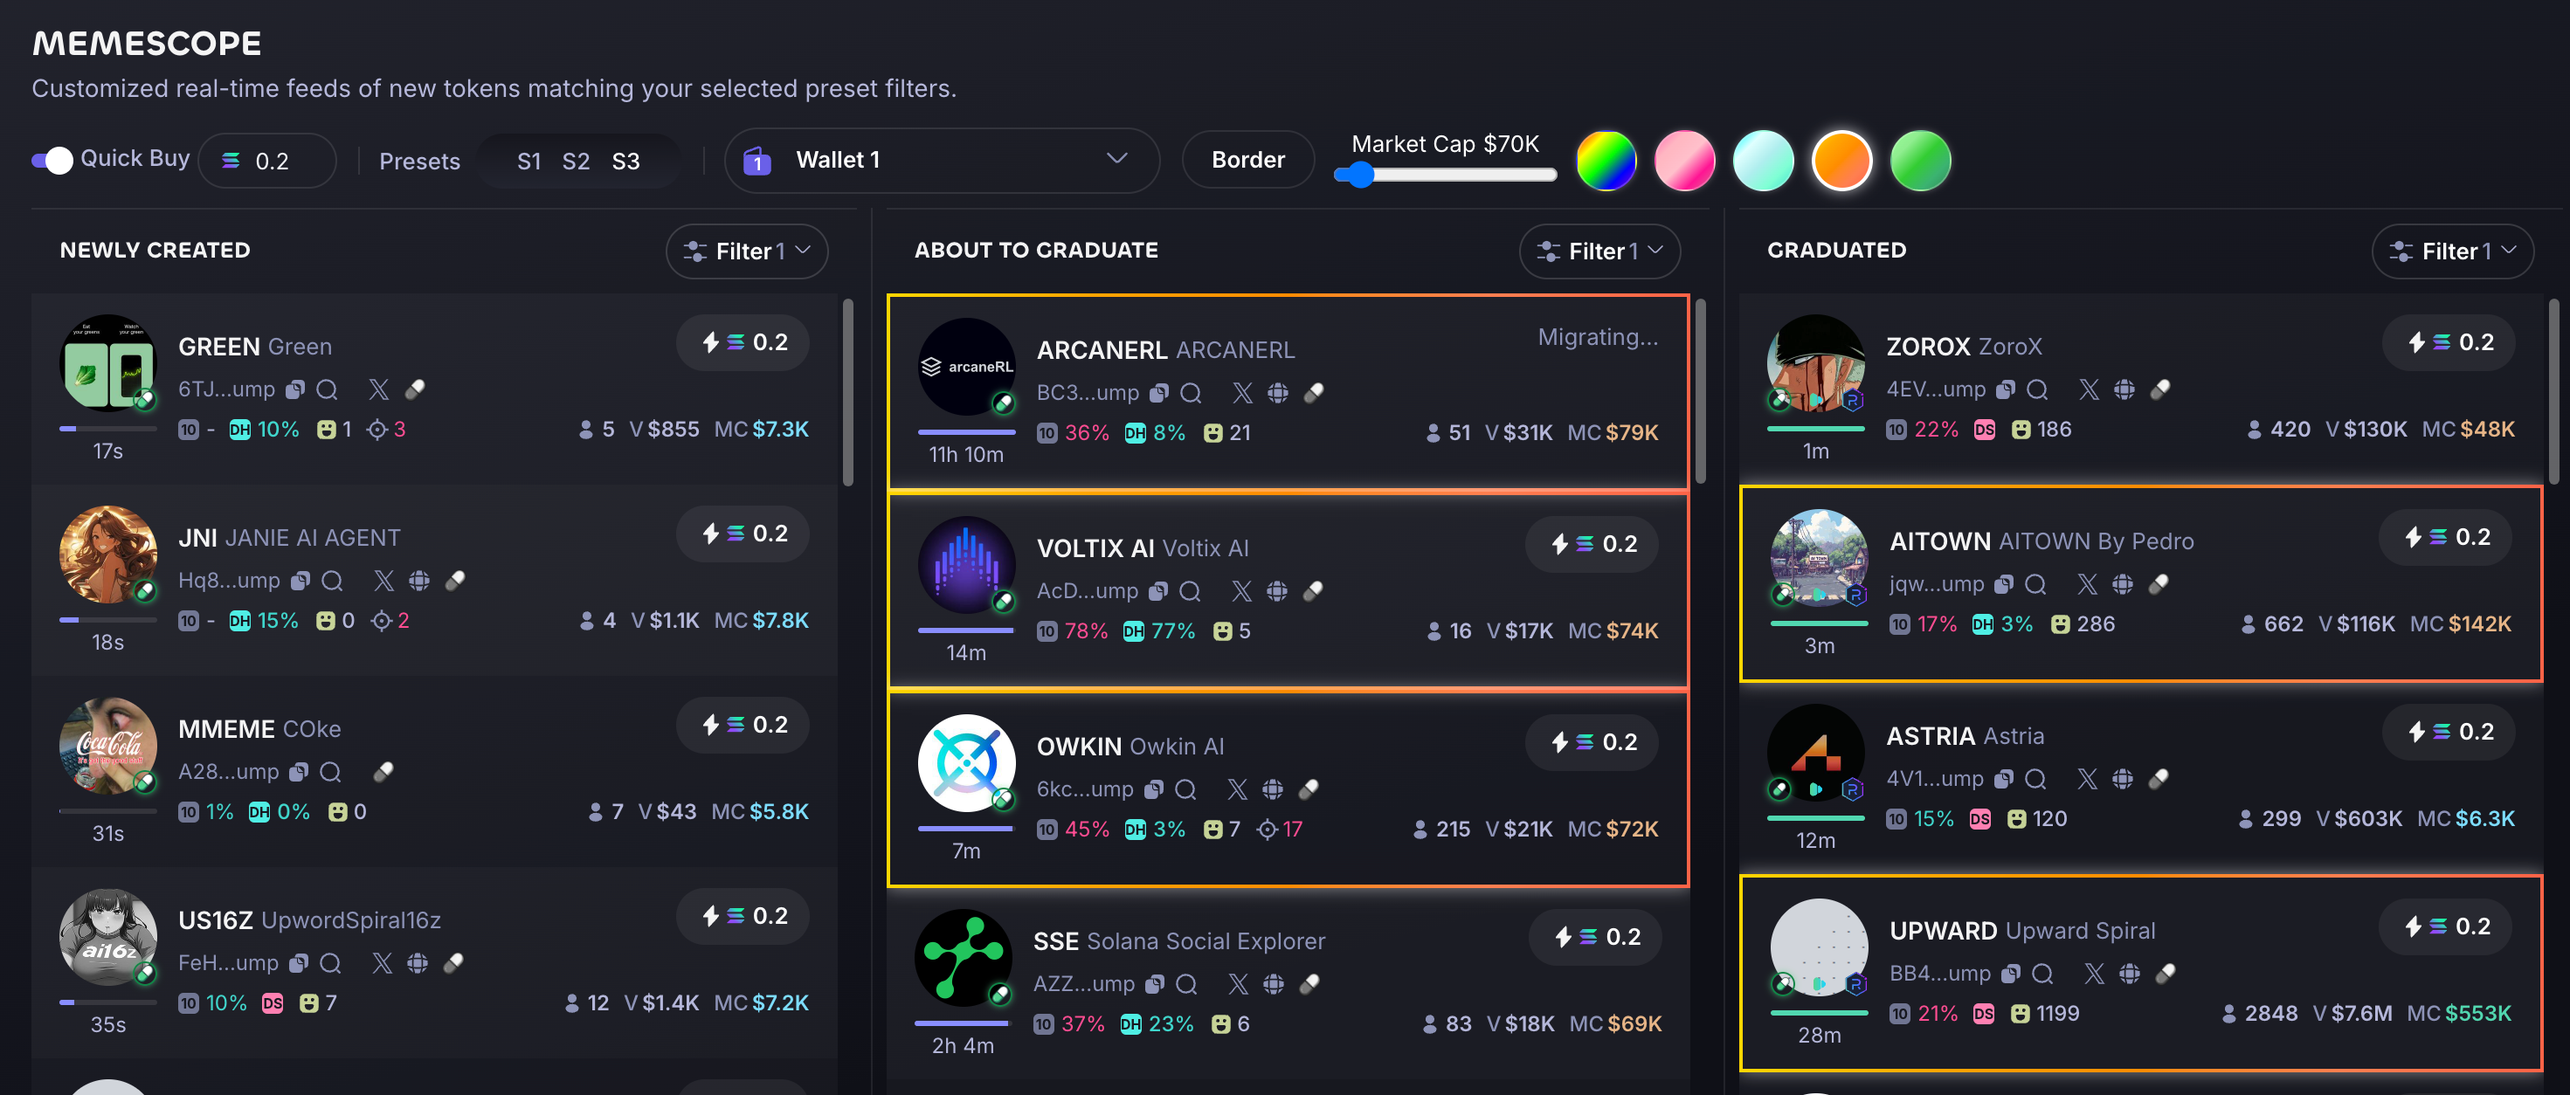
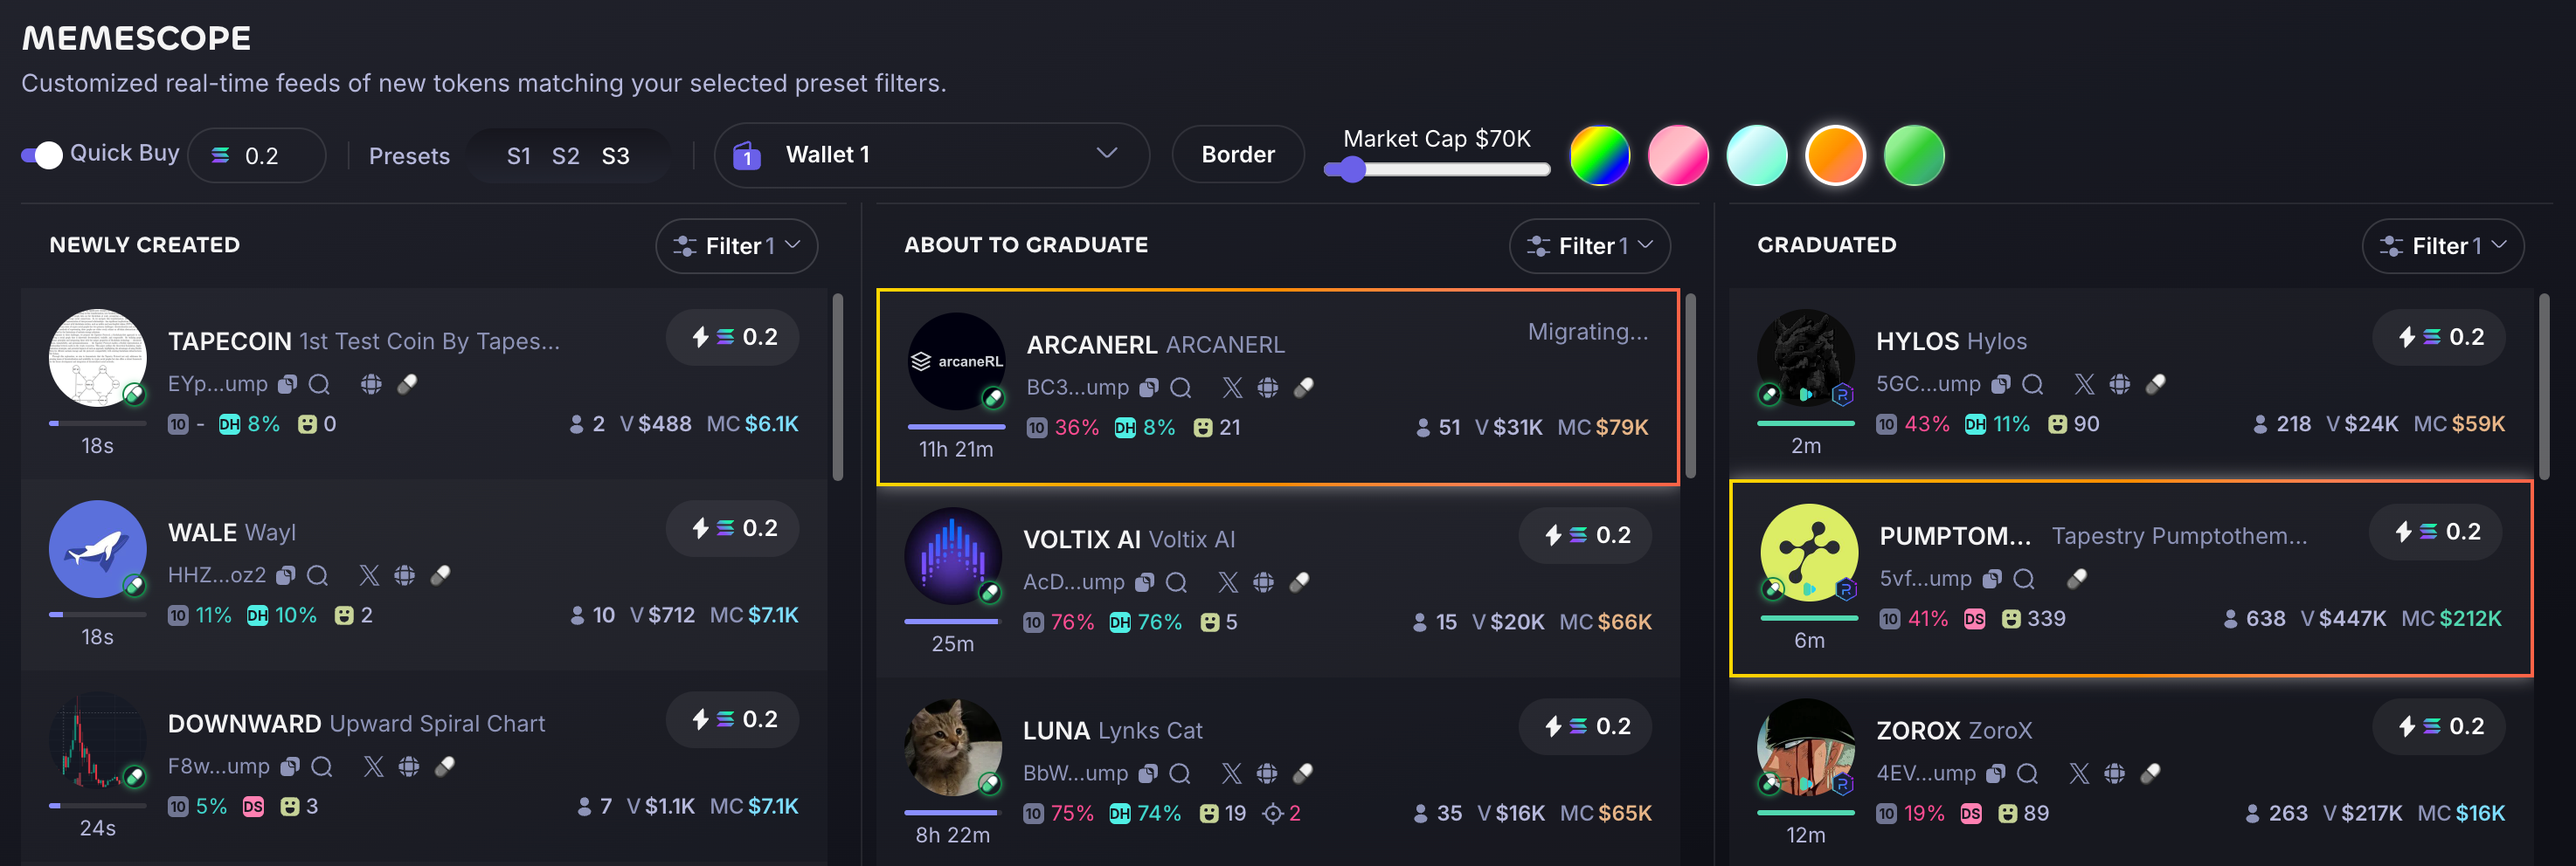
version

diff --git a/memescope/memescope.tsx b/memescope/memescope.tsx
@@ -135,6 +135,9 @@ export function MemeScope({
 							style={{
 								width: "100%",
 								height: "10px",
+								border: "1px solid white",
+								borderRadius: "5px",
+								accentColor: "#6A60E8",
 							}}
 						/>
 					</div>
